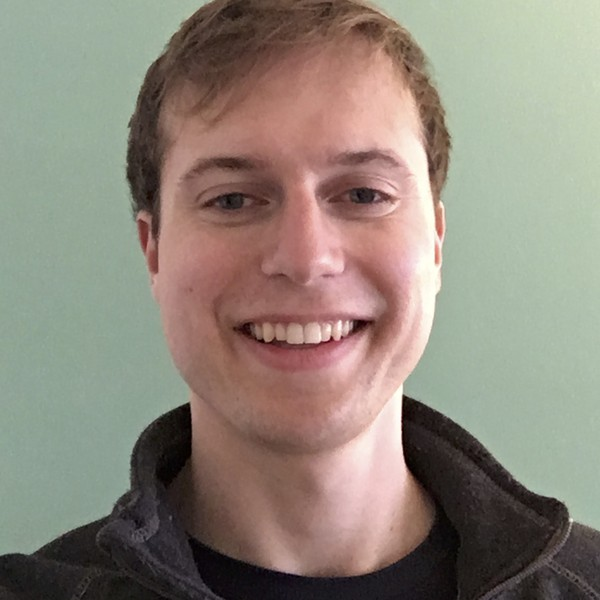
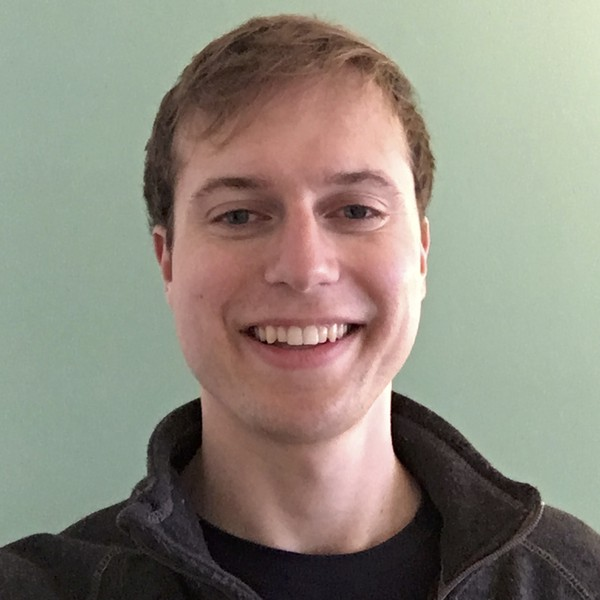
Team photos: smaller faces placed lower to keep the top of the head

diff --git a/scripts/team/normalize_faces.py b/scripts/team/normalize_faces.py
@@ -11,8 +11,8 @@ import subprocess, sys
 from pathlib import Path
 from PIL import Image, ImageOps
 
-FACE_FRAC = 0.55   # face width / crop width
-FACE_Y = 0.45      # face centre height / crop height (a bit above middle)
+FACE_FRAC = 0.47   # face width / crop width
+FACE_Y = 0.55      # face centre height / crop height (low enough to keep the top of the head)
 MAX_PX = 600       # output size cap (avatars display at <= 128px, 2x = 256px)
 
 src = Path('src/assets/team/originals')
